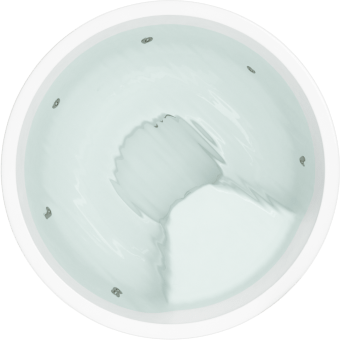
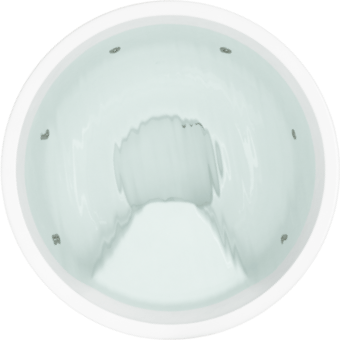
added fonts, new images. corrected generatePdf function

diff --git a/src/components/PositioningSandfilter/style.less b/src/components/PositioningSandfilter/style.less
@@ -26,7 +26,8 @@
       align-items: center;
       height: 100px;
       width: 150px;
-      > p{
+
+      > p {
         font-family: 'Montserrat_400';
         font-size: 14px;
       }
@@ -37,7 +38,8 @@
       align-items: center;
       height: 85px;
       width: 150px;
-      > p{
+
+      > p {
         font-family: 'Montserrat_400';
         font-size: 14px;
         padding-top: 15px;
@@ -58,46 +60,47 @@
     position: absolute;
 
     &.Position_1 {
-      left: 20%;
-      bottom: -2%;
-      transform: translate(-20%, 2%);
+      left: 0;
+      bottom: 10%;
+      transform: translate(0, -10%);
     }
 
     &.Position_2 {
       left: -10%;
-      bottom: 25%;
-      transform: translate(10%, -25%);
+      top: 30%;
+      transform: translate(10%, -30%);
     }
 
     &.Position_3 {
-      left: 0;
-      top: 10%;
-      transform: translate(0, -10%);
+      left: 20%;
+      top: -8%;
+      transform: translate(-20%, 8%);
     }
 
     &.Position_4 {
-      left: 45%;
-      top: -10%;
-      transform: translate(-45%, 10%);
+      right: 13%;
+      top: -8%;
+      transform: translate(-13%, 8%);
     }
 
     &.Position_5 {
-      right: 5%;
-      top: 5%;
-      transform: translate(-5%, -5%);
+      right: -5%;
+      top: 30%;
+      transform: translate(5%, -30%);
     }
 
     &.Position_6 {
-      right: -5%;
-      top: 50%;
-      transform: translate(5%, -50%);
-
+      right: 0;
+      bottom: 10%;
+      transform: translate(0, -10%);
     }
 
     &-checkbox {
       display: flex;
       align-items: center;
       width: max-content;
+      font-family: 'Lato_300';
+      font-size: 1rem;
 
 
       input {
@@ -135,44 +138,70 @@
         top: -1px;
       }
 
-      input:disabled{
+      input:disabled {
         cursor: not-allowed;
       }
     }
 
-    &-desc{
+    &-desc {
       position: absolute;
       width: max-content;
       text-align: center;
 
-      &.Position_1{
+      > p{
+        font-family: 'Montserrat_300';
+        font-size: 0.9rem;
+      }
+
+      .checkedPositionDone {
+        position: relative;
+        font-family: 'Montserrat_Bold';
+
+        &:after {
+          content: '';
+          display: block;
+          width: 16px;
+          height: 16px;
+          background-image: url("../../assets/images/check-selected-icon.png");
+          background-repeat: no-repeat;
+          background-size: contain;
+          position: absolute;
+          top: 2px;
+          left: -20px;
+        }
+      }
+
+      &.Position_1 {
         bottom: -25px;
       }
 
-      &.Position_2{
+      &.Position_2 {
+        bottom: -25px;
+        .checkedPositionDone {
+          &:after{
+            left: initial;
+            right: -20px;
+          }
+        }
+      }
+
+      &.Position_3 {
+        top: -23px;
+      }
+
+      &.Position_4 {
+        top: -23px;
+        left: 0;
+      }
+
+      &.Position_5 {
         bottom: -25px;
       }
 
-      &.Position_3{
+      &.Position_6 {
         bottom: -25px;
-      }
-
-      &.Position_4{
-        top: -20px;
-        left: -60px;
-      }
-
-      &.Position_5{
-        top: -25px;
-        right: -30px;
-      }
-
-      &.Position_6{
-        bottom: -25px;
-        right: 0;
+        right: -10px;
       }
     }
-
-
   }
 }

diff --git a/src/components/PositioningSandfilter/style.css b/src/components/PositioningSandfilter/style.css
@@ -52,39 +52,41 @@
   position: absolute;
 }
 .PositioningSandfilterBox-item.Position_1 {
-  left: 20%;
-  bottom: -2%;
-  transform: translate(-20%, 2%);
+  left: 0;
+  bottom: 10%;
+  transform: translate(0, -10%);
 }
 .PositioningSandfilterBox-item.Position_2 {
   left: -10%;
-  bottom: 25%;
-  transform: translate(10%, -25%);
+  top: 30%;
+  transform: translate(10%, -30%);
 }
 .PositioningSandfilterBox-item.Position_3 {
-  left: 0;
-  top: 10%;
-  transform: translate(0, -10%);
+  left: 20%;
+  top: -8%;
+  transform: translate(-20%, 8%);
 }
 .PositioningSandfilterBox-item.Position_4 {
-  left: 45%;
-  top: -10%;
-  transform: translate(-45%, 10%);
+  right: 13%;
+  top: -8%;
+  transform: translate(-13%, 8%);
 }
 .PositioningSandfilterBox-item.Position_5 {
-  right: 5%;
-  top: 5%;
-  transform: translate(-5%, -5%);
+  right: -5%;
+  top: 30%;
+  transform: translate(5%, -30%);
 }
 .PositioningSandfilterBox-item.Position_6 {
-  right: -5%;
-  top: 50%;
-  transform: translate(5%, -50%);
+  right: 0;
+  bottom: 10%;
+  transform: translate(0, -10%);
 }
 .PositioningSandfilterBox-item-checkbox {
   display: flex;
   align-items: center;
   width: max-content;
+  font-family: 'Lato_300';
+  font-size: 1rem;
 }
 .PositioningSandfilterBox-item-checkbox input {
   margin: 0 5px 0 0;
@@ -124,24 +126,47 @@
   width: max-content;
   text-align: center;
 }
+.PositioningSandfilterBox-item-desc > p {
+  font-family: 'Montserrat_300';
+  font-size: 0.9rem;
+}
+.PositioningSandfilterBox-item-desc .checkedPositionDone {
+  position: relative;
+  font-family: 'Montserrat_Bold';
+}
+.PositioningSandfilterBox-item-desc .checkedPositionDone:after {
+  content: '';
+  display: block;
+  width: 16px;
+  height: 16px;
+  background-image: url("../../assets/images/check-selected-icon.png");
+  background-repeat: no-repeat;
+  background-size: contain;
+  position: absolute;
+  top: 2px;
+  left: -20px;
+}
 .PositioningSandfilterBox-item-desc.Position_1 {
   bottom: -25px;
 }
 .PositioningSandfilterBox-item-desc.Position_2 {
   bottom: -25px;
 }
+.PositioningSandfilterBox-item-desc.Position_2 .checkedPositionDone:after {
+  left: initial;
+  right: -20px;
+}
 .PositioningSandfilterBox-item-desc.Position_3 {
-  bottom: -25px;
+  top: -23px;
 }
 .PositioningSandfilterBox-item-desc.Position_4 {
-  top: -20px;
-  left: -60px;
+  top: -23px;
+  left: 0;
 }
 .PositioningSandfilterBox-item-desc.Position_5 {
-  top: -25px;
-  right: -30px;
+  bottom: -25px;
 }
 .PositioningSandfilterBox-item-desc.Position_6 {
   bottom: -25px;
-  right: 0;
+  right: -10px;
 }

diff --git a/src/components/PositioningSandfilter/index.js b/src/components/PositioningSandfilter/index.js
@@ -43,11 +43,11 @@ const PositioningSandfilterBox = (props) => {
     return <div className='PositioningSandfilterBox-select-options'>
       <div className='PositioningSandfilterBox-select-options-sandfilter'>
         <img src={ sandFilter } alt="filter"/>
-        <p>Sandfilter (pump)</p>
+        <p>Sandfilter (Pumpe)</p>
       </div>
       <div className='PositioningSandfilterBox-select-options-control-panel'>
         <img src={ srcCP && srcCP } alt="panel"/>
-        <p>Control Panel</p>
+        <p>Schalter Position</p>
       </div>
     </div>
   }
@@ -57,7 +57,6 @@ const PositioningSandfilterBox = (props) => {
       <div className='PositioningSandfilterBox'>
         <div className='PositioningSandfilterBox-image'>
           <img src={ positioningImage } alt="positioning"/>
-          {console.log(selectedPositioningIds)}
 
           { optionData ? Object.values(optionData).map(option => {
 
@@ -101,7 +100,7 @@ const PositioningSandfilterBox = (props) => {
               </div>
 
               <div className={ cn('PositioningSandfilterBox-item-desc',main.Name.replace(' ', '_') ) }>
-              <p>{ main.Name }</p>
+              <p className={cn(isCheckedControlPanel || isCheckedSandFilter ? 'checkedPositionDone' : '')}>{ main.Name }</p>
               { price?.realValue && <p> +{ price.realValue } { price.currency.currencySymbol } </p> }
             </div>
             </div>

diff --git a/src/actions/hotTub/index.js b/src/actions/hotTub/index.js
@@ -131,8 +131,9 @@ export const generatePdfLink = (images) => async (dispatch, getState) => {
   try {
     dispatch({ type: ActionTypes.GENERATE_PGF });
     const selectedIdsWithAmount = getState().hotTub.selectedIdsWithAmount;
+    const selectedPositioningIds = getState().hotTub.selectedPositioningIds;
     const selectedIds = await getAllSelectedIds(getState);
-
+    let sendData;
 
     const data = await selectedIds.map(id => {
       if (selectedIdsWithAmount?.[id]) {
@@ -142,9 +143,13 @@ export const generatePdfLink = (images) => async (dispatch, getState) => {
       }
     })
 
-    let sendData = { data: data, images: images };
+    if(Object.keys(selectedPositioningIds)?.length){
+      sendData = { data: data, images: images, positioning: selectedPositioningIds };
+    } else {
+      sendData = { data: data, images: images }
+    }
 
-    if (data && selectedIds?.length >= 1) {
+    if (data && selectedIds?.length >= 1 && sendData) {
       const response = await hotTubAPI.generatePdfLink(sendData);
       if (response?.data && response?.status === 200) {
         await dispatch({

diff --git a/src/components/CustomizeOptionContainer/index.js b/src/components/CustomizeOptionContainer/index.js
@@ -34,7 +34,7 @@ const CustomizeOptionContainer = (props) => {
                     {showName && showName}
                 </p>
                 <p className="CustomizeOptionContainer-header-optional">
-                    {optional ? (option === 'Positioning' ? 'Click on circle to choose position' : '(Optional)') : null}
+                    {optional ? (option === 'Positioning' ? 'Bitte klicken, um die Position zu wählen' : '(Optional)') : null}
                 </p>
                 <span className={classForSpan}></span>
             </div>
